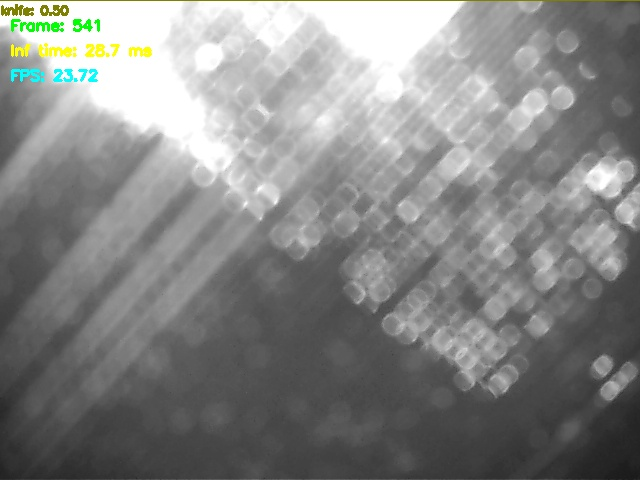
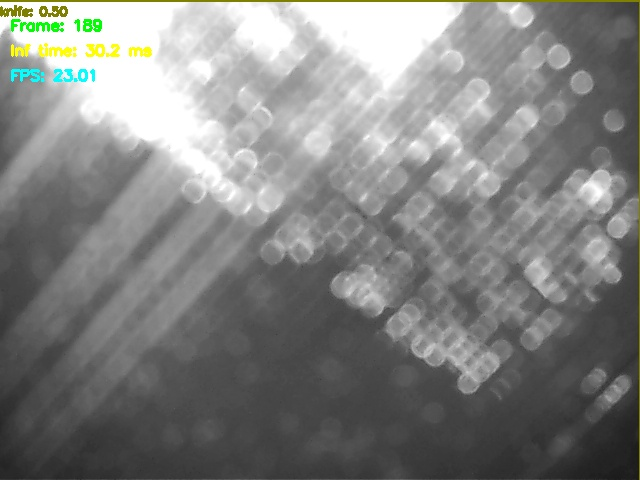
centralize all processor usage statistics in my_htop.py and update config paths

diff --git a/utils/my_htop.py b/utils/my_htop.py
@@ -1,0 +1,146 @@
+# -*- coding: utf-8 -*-
+"""my_htop.py
+by fcascan 2025
+"""
+import os
+import time
+import logging
+import re
+from config import *
+
+SLEEP_TIME = 0.5
+
+def get_npu_info():
+    try:
+        npu_load_file = parser.get("MY_HTOP_PATH", "npu_load_path", fallback="/sys/kernel/debug/rknpu/load")
+        npu_freq_file = parser.get("MY_HTOP_PATH", "npu_freq_path", fallback="/sys/class/devfreq/fdab0000.npu/cur_freq")
+        # NPU usage
+        with open(npu_load_file, "r") as f:
+            data = f.read()
+        percents = re.findall(r'(\d+)%', data)
+        if percents:
+            npu_load = [int(p) for p in percents]
+        else:
+            npu_load = [0, 0, 0]
+        # NPU freq
+        try:
+            with open(npu_freq_file, "r") as f:
+                npu_freq_str = f.read().strip()
+            npu_freq = int(npu_freq_str) // 1000000
+        except Exception:
+            npu_freq = 0
+        return npu_load, npu_freq
+    except Exception as e:
+        print(f"[ERROR] Cannot read NPU info: {e}")
+        return [0, 0, 0], 0
+
+def log_npu_usage():
+    while True:
+        npu_load, npu_freq = get_npu_info()
+        npu_load_str = ", ".join([f"NPU_CORE_{i} Load = {load}%" for i, load in enumerate(npu_load)])
+        print(f"[RKNPUTOP] {npu_load_str}, Freq = {npu_freq} MHz")
+        time.sleep(SLEEP_TIME)
+
+prev_cpu = {}
+def get_cpu_info():
+    cpu_loads = {}
+    core_count = os.cpu_count() or 1
+    global prev_cpu
+    try:
+        with open("/proc/stat", "r") as f:
+            lines = f.readlines()
+    except Exception:
+        lines = []
+    for i in range(core_count):
+        line = next((l for l in lines if l.startswith(f"cpu{i} ")), None)
+        if not line:
+            continue
+        parts = line.split()
+        try:
+            user   = int(parts[1])
+            nice   = int(parts[2])
+            system = int(parts[3])
+            idle   = int(parts[4])
+            iowait = int(parts[5])
+            irq    = int(parts[6])
+            softirq= int(parts[7])
+            steal  = int(parts[8]) if len(parts) > 8 else 0
+        except Exception:
+            continue
+        total = user + nice + system + idle + iowait + irq + softirq + steal
+        if i in prev_cpu:
+            prev_total, prev_idle = prev_cpu[i]
+            diff_total = total - prev_total
+            diff_idle  = idle - prev_idle
+            load = (100 * (diff_total - diff_idle)) // diff_total if diff_total > 0 else 0
+        else:
+            load = 0
+        cpu_loads[i] = load
+        prev_cpu[i] = (total, idle)
+    cpu_freqs = {}
+    cpu_freq_pattern = parser.get("MY_HTOP_PATH", "cpu_freq_pattern", fallback="/sys/devices/system/cpu/cpu{core}/cpufreq/scaling_cur_freq")
+    for i in range(core_count):
+        try:
+            freq_path = cpu_freq_pattern.format(core=i)
+            with open(freq_path, "r") as f:
+                freq_str = f.read().strip()
+            freq = int(freq_str) // 1000
+        except Exception:
+            freq = 0
+        cpu_freqs[i] = freq
+    return cpu_loads, cpu_freqs
+
+def get_gpu_info():
+    gpu_load_path = parser.get("MY_HTOP_PATH", "gpu_load_path", fallback="/sys/class/devfreq/fb000000.gpu-panthor/load")
+    gpu_freq_path = parser.get("MY_HTOP_PATH", "gpu_freq_path", fallback="/sys/class/devfreq/fb000000.gpu-panthor/cur_freq")
+    if not os.path.exists(gpu_load_path) or not os.path.exists(gpu_freq_path):
+        return None, None
+    try:
+        with open(gpu_load_path, "r") as f:
+            raw_line = f.read().strip()
+        fields = re.split(r'[@ ]+', raw_line)
+        load_str = fields[0].rstrip('%')
+        gpu_load = int(load_str)
+    except Exception:
+        gpu_load = 0
+    try:
+        with open(gpu_freq_path, "r") as f:
+            gpu_freq_str = f.read().strip()
+        gpu_freq = int(gpu_freq_str) // 1000000
+    except Exception:
+        gpu_freq = 0
+    return gpu_load, gpu_freq
+
+def get_processor_usage_stats(inference_device="NPU"):
+    """Returns a dict with CPU, NPU, and GPU usage statistics."""
+    import psutil
+    stats = {}
+    # CPU usage
+    try:
+        cpu_percent = psutil.cpu_percent(interval=1, percpu=False)
+        stats['cpu'] = { 'avg': cpu_percent }
+    except Exception:
+        stats['cpu'] = None
+    # NPU usage
+    if inference_device == "NPU":
+        try:
+            npu_load, _ = get_npu_info()
+            if npu_load:
+                avg_npu = sum(npu_load) / len(npu_load)
+                stats['npu'] = { 'avg': avg_npu, 'per_core': npu_load }
+            else:
+                stats['npu'] = None
+        except Exception:
+            stats['npu'] = None
+    else:
+        stats['npu'] = None
+    # GPU usage
+    try:
+        gpu_load, _ = get_gpu_info()
+        if gpu_load is not None:
+            stats['gpu'] = { 'avg': gpu_load }
+        else:
+            stats['gpu'] = None
+    except Exception:
+        stats['gpu'] = None
+    return stats

diff --git a/camera_processing.py b/camera_processing.py
@@ -1,3 +1,7 @@
+# -*- coding: utf-8 -*-
+"""camera_processing.py
+by fcascan 2025
+"""
 import cv2
 import time
 import logging
@@ -11,7 +15,7 @@ from config import *
 if INFERENCE_DEVICE == "NPU":
     from rknnlite.api import RKNNLite
     from utils.rknn_post_processing import post_process
-    from utils.my_rknputop import log_npu_usage
+    from utils.my_htop import log_npu_usage
 
 def process_cameras(yolo_postprocess_func):
     context = pyudev.Context()
@@ -56,9 +60,9 @@ def process_cameras(yolo_postprocess_func):
     inftime_per_camera = [[] for _ in range(len(cameras))]
     failure_counters = [0] * len(cameras)
     imgs_to_draw = [None] * len(cameras)
-    if INFERENCE_DEVICE == "NPU":
-        npu_thread = threading.Thread(target=log_npu_usage, daemon=True)
-        npu_thread.start()
+    # if INFERENCE_DEVICE == "NPU":
+        # npu_thread = threading.Thread(target=log_npu_usage, daemon=True)
+        # npu_thread.start()
     print("Starting camera processing...")
     # Estadísticas globales
     camera_total_frames = [0] * len(cameras)
@@ -135,7 +139,7 @@ def process_cameras(yolo_postprocess_func):
     for cap in cameras:
         cap.release()
     cv2.destroyAllWindows()
-    # Estadísticas por cámara
+    # Per-camera statistics
     print("\n" + "="*50)
     print("CAMERA PROCESSING STATISTICS")
     print("="*50)
@@ -159,4 +163,23 @@ def process_cameras(yolo_postprocess_func):
             print(f"  Display FPS: {avg_fps:.2f}")
         else:
             print(f"  [ERROR] No frames were processed for camera {idx}.")
+    print("="*50)
+
+    # Processor usage statistics (CPU/NPU/GPU)
+    print("\nPROCESSOR USAGE STATISTICS")
+    print("-" * 30)
+    from utils.my_htop import get_processor_usage_stats
+    proc_stats = get_processor_usage_stats(INFERENCE_DEVICE)
+    if proc_stats['cpu']:
+        print(f"CPU Usage - Avg: {proc_stats['cpu']['avg']:.1f}%")
+    else:
+        print("CPU Usage - N/A")
+    if proc_stats['npu']:
+        print(f"NPU Usage - Avg: {proc_stats['npu']['avg']:.1f}% (per core: {proc_stats['npu']['per_core']})")
+    else:
+        print("NPU Usage - N/A")
+    if proc_stats['gpu']:
+        print(f"GPU Usage - Last sample: {proc_stats['gpu']['avg']:.1f}%")
+    else:
+        print("GPU Usage - N/A")
     print("="*50)

diff --git a/video_processing.py b/video_processing.py
@@ -1,3 +1,7 @@
+# -*- coding: utf-8 -*-
+"""video_processing.py
+by fcascan 2025
+"""
 import os
 import sys
 import cv2
@@ -159,12 +163,20 @@ def process_video(yolo_postprocess_func):
         print(f"Max inference time: {max(inference_times)*1000:.2f} ms")
         print("\nPROCESSOR USAGE STATISTICS")
         print("-" * 30)
-        if cpu_stats:
-            print(f"CPU Usage - Avg: {cpu_stats['avg']:.1f}%, Min: {cpu_stats['min']:.1f}%, Max: {cpu_stats['max']:.1f}%")
-        if INFERENCE_DEVICE == "NPU" and npu_stats:
-            print(f"NPU Usage - Avg: {npu_stats['avg']:.1f}%, Min: {npu_stats['min']:.1f}%, Max: {npu_stats['max']:.1f}%")
-        elif INFERENCE_DEVICE == "CPU":
-            print("NPU Usage - N/A (CPU inference mode)")
+        from utils.my_htop import get_processor_usage_stats
+        proc_stats = get_processor_usage_stats(INFERENCE_DEVICE)
+        if proc_stats['cpu']:
+            print(f"CPU Usage - Avg: {proc_stats['cpu']['avg']:.1f}%")
+        else:
+            print("CPU Usage - N/A")
+        if proc_stats['npu']:
+            print(f"NPU Usage - Avg: {proc_stats['npu']['avg']:.1f}% (per core: {proc_stats['npu']['per_core']})")
+        else:
+            print("NPU Usage - N/A")
+        if proc_stats['gpu']:
+            print(f"GPU Usage - Last sample: {proc_stats['gpu']['avg']:.1f}%")
+        else:
+            print("GPU Usage - N/A")
         print("="*50)
     else:
         print("[ERROR] No frames were processed successfully.")

diff --git a/yolo_post.py b/yolo_post.py
@@ -1,3 +1,7 @@
+# -*- coding: utf-8 -*-
+"""yolo_post.py
+by fcascan 2025
+"""
 import numpy as np
 import cv2
 from config import IMG_SIZE

diff --git a/main.py b/main.py
@@ -29,7 +29,7 @@ from config import *
 if INFERENCE_DEVICE == "NPU":
     from rknnlite.api import RKNNLite
     from utils.rknn_post_processing import post_process
-    from utils.my_rknputop import log_npu_usage
+    from utils.my_htop import log_npu_usage
 
 # Disable logging for unnecessary messages
 logger = logging.getLogger()

diff --git a/main_backup.py b/main_backup.py
@@ -29,7 +29,7 @@ from config import *
 if INFERENCE_DEVICE == "NPU":
     from rknnlite.api import RKNNLite
     from utils.rknn_post_processing import post_process
-    from utils.my_rknputop import log_npu_usage
+    from utils.my_htop import log_npu_usage
 
 # Disable logging for unnecessary messages
 logger = logging.getLogger()